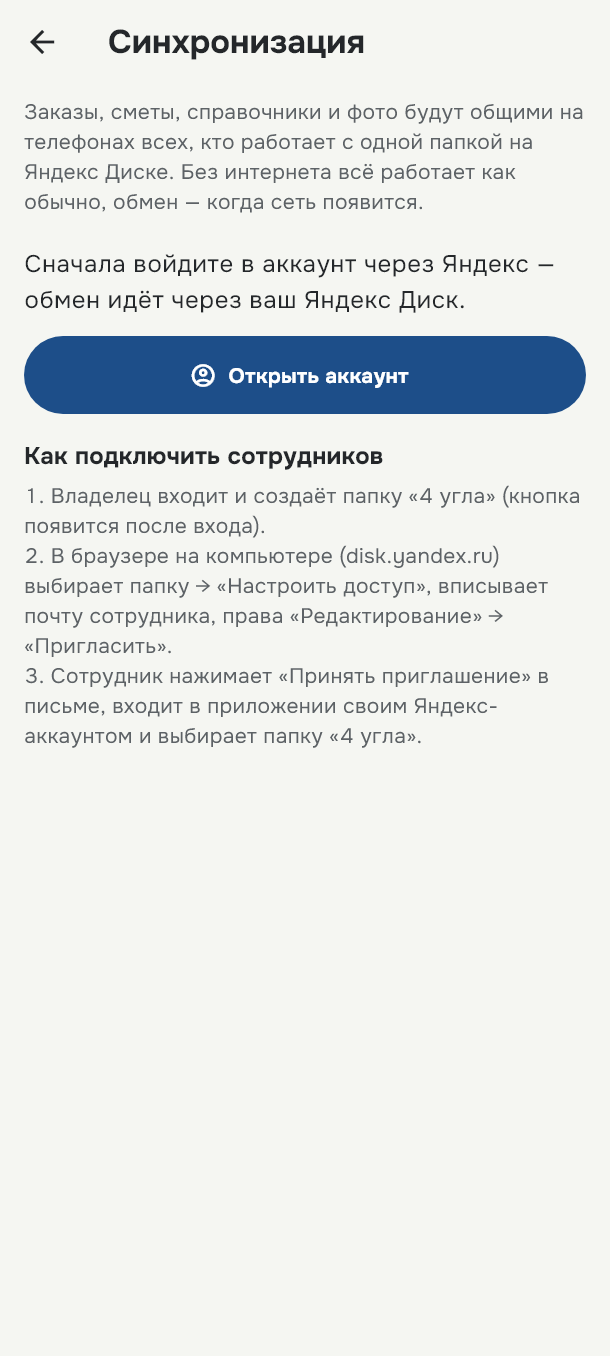
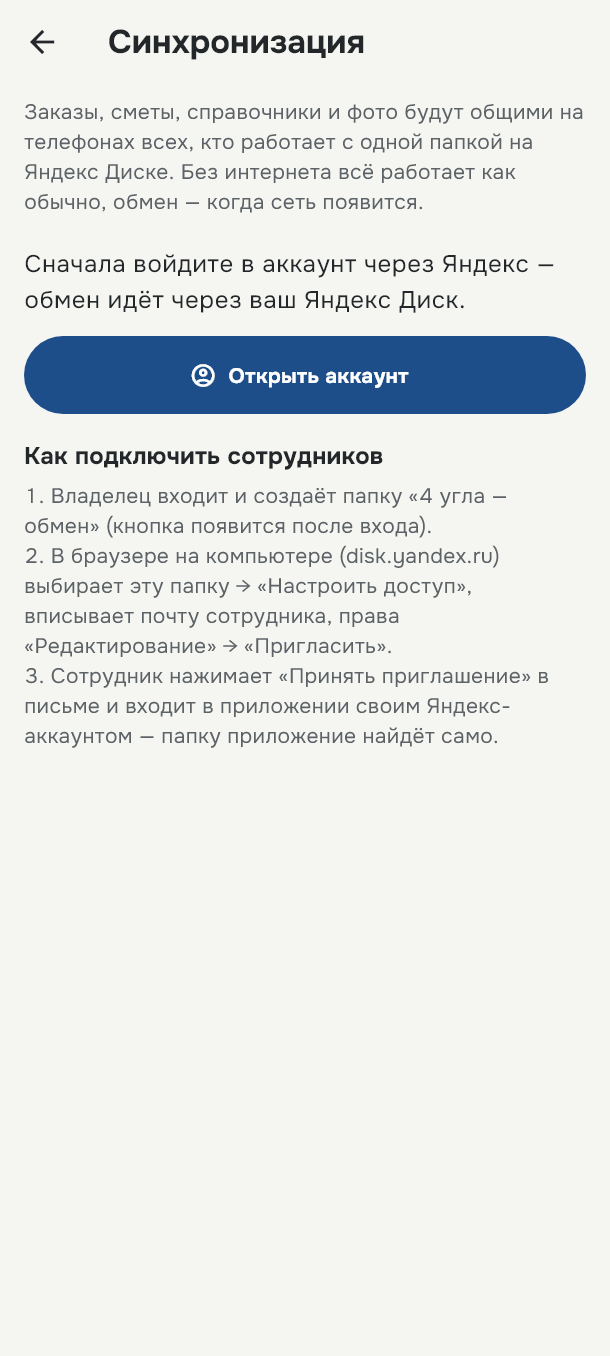
0.1.5: инструкция обмена под папку «4 угла — обмен», CHANGELOG

Changed region(s): [[0.0623, 0.3717, 0.841, 0.5575], [0.4984, 0.3717, 0.6852, 0.4027], [0.8098, 0.3407, 0.9344, 0.3717]]

diff --git a/guide/sync.md b/guide/sync.md
@@ -13,7 +13,7 @@
 
 | | |
 | --- | --- |
-| **Работаете один** | Только [часть 1](#часть-1-войти-и-создать-папку-обмена). Заказы будут храниться и на Диске: сменили телефон — вошли на новом, и всё на месте. На втором своём телефоне войдите тем же аккаунтом и выберите папку «4 угла». |
+| **Работаете один** | Только [часть 1](#часть-1-войти-и-создать-папку-обмена). Заказы будут храниться и на Диске: сменили телефон — вошли на новом, и всё на месте. На втором своём телефоне войдите тем же аккаунтом — папку «4 угла — обмен» приложение найдёт само. |
 | **Вы владелец бригады** | [Часть 1](#часть-1-войти-и-создать-папку-обмена) у себя на телефоне, потом [часть 2](#часть-2-пригласить-сотрудников-в-папку) на компьютере. |
 | **Вы сотрудник** | Дождитесь письма с приглашением от владельца и выполните [часть 3](#часть-3-принять-приглашение-и-подключиться). |
 
@@ -48,20 +48,15 @@
 
 <img src="sync/03-account-signed-out.png" alt="Экран «Аккаунт»: карточка «Обмен и облако — по желанию» с кнопкой «Войти через Яндекс»" width="260">
 
-### 4. Выберите папку
+### 4. Создайте папку «4 угла — обмен»
 
-Теперь на экране видно, кто вошёл, и строка **«Папка не выбрана»**. Нажмите **«Выбрать»**.
+Теперь на экране видно, кто вошёл, и строка **«Папки обмена пока нет»**. Нажмите
+**«Создать папку «4 угла — обмен»»** — папка появится в корне Диска. Название у папки обмена одно для
+всех и выбирать его не нужно: так она не перепутается с вашими папками.
 
-<img src="sync/04-sync-no-folder.png" alt="Экран «Синхронизация» после входа: «Папка не выбрана», кнопка «Выбрать»" width="260">
+<img src="sync/04-sync-no-folder.png" alt="Экран «Синхронизация» после входа: «Папки обмена пока нет», кнопка «Создать папку «4 угла — обмен»»" width="260">
 
-### 5. Создайте папку «4 угла»
-
-Внизу откроется список папок вашего Диска. Нажмите первую строку — **«Создать папку «4 угла»»**.
-Папка появится в корне Диска.
-
-<img src="sync/05-pick-owner.png" alt="Список «Папка обмена» с пунктом «Создать папку «4 угла»»" width="260">
-
-### 6. Проверьте, что всё готово
+### 5. Проверьте, что всё готово
 
 Под названием папки должна быть синяя надпись **«Запись в папку разрешена»**. Первый обмен начнётся
 сам: телефон отправит в папку все свои заказы.
@@ -69,7 +64,7 @@
 Дальше обмен идёт без вас: при открытии приложения, через полминуты после правок и раз в 10 минут,
 пока приложение открыто. Кнопка **«Синхронизировать сейчас»** нужна, только чтобы обменяться сразу.
 
-<img src="sync/06-sync-ready.png" alt="Экран «Синхронизация»: папка «4 угла», «Запись в папку разрешена», кнопка «Синхронизировать сейчас»" width="260">
+<img src="sync/06-sync-ready.png" alt="Экран «Синхронизация»: папка «4 угла — обмен», «Запись в папку разрешена», кнопка «Синхронизировать сейчас»" width="260">
 
 ---
 
@@ -81,11 +76,11 @@
 ### 1. Откройте Диск
 
 Зайдите на [disk.yandex.ru](https://disk.yandex.ru) под тем же аккаунтом, с которым вошли в
-приложении. В списке файлов найдите папку **«4 угла»**.
+приложении. В списке файлов найдите папку **«4 угла — обмен»**.
 
 ### 2. Пригласите сотрудника
 
-**Выделить «4 угла» → «Настроить доступ» → почта сотрудника → «Редактирование» → «Пригласить»**
+**Выделить «4 угла — обмен» → «Настроить доступ» → почта сотрудника → «Редактирование» → «Пригласить»**
 
 - Выделите папку и нажмите **«Настроить доступ»** на верхней панели (или в меню по правой кнопке мыши).
 - Впишите адрес почты сотрудника на Яндексе. Если аккаунта у него нет, Яндекс предложит зарегистрироваться.
@@ -105,7 +100,7 @@
 ### 1. Примите приглашение
 
 На почту придёт письмо от Яндекс Диска. Нажмите в нём **«Принять приглашение»** — откроется Диск.
-Там ещё раз нажмите **«Принять приглашение»** вверху экрана. После этого папка «4 угла» появится и
+Там ещё раз нажмите **«Принять приглашение»** вверху экрана. После этого папка «4 угла — обмен» появится и
 на вашем Диске.
 
 > Общая папка занимает место только на Диске владельца. Но совсем без свободного места на вашем
@@ -116,17 +111,17 @@
 Как в части 1: шестерёнка → **«Синхронизация»** → **«Открыть аккаунт»** → **«Войти через Яндекс»**.
 Входите тем аккаунтом, на почту которого пришло приглашение.
 
-### 3. Выберите общую папку «4 угла»
+### 3. Вернитесь в «Синхронизацию»
 
-Вернитесь в «Синхронизацию», нажмите **«Выбрать»** и выберите в списке папку **«4 угла»** — это и
-есть общая папка владельца. Должна появиться надпись **«Запись в папку разрешена»**, и начнётся
-первый обмен: к вам придут заказы бригады, от вас — ваши.
+Общую папку владельца приложение найдёт само — выбирать ничего не нужно. На экране появится папка
+**«4 угла — обмен»** и надпись **«Запись в папку разрешена»**, начнётся первый обмен: к вам придут заказы
+бригады, от вас — ваши.
 
-> ⚠ Если в списке нет папки «4 угла», а первой строкой стоит **«Создать папку «4 угла»»** —
-> приглашение ещё не принято. Не создавайте папку сами: получится своя отдельная папка, и обмена с
-> бригадой не будет. Вернитесь к шагу 1.
+> ⚠ Если на экране **«Папки обмена пока нет»** — приглашение ещё не принято. Не нажимайте
+> «Создать папку»: получится своя отдельная папка, и обмена с бригадой не будет. Вернитесь к шагу 1,
+> примите приглашение и нажмите **«Найти»**.
 
-<img src="sync/07-pick-employee.png" alt="Список «Папка обмена» у сотрудника: среди папок есть «4 угла»" width="260">
+<img src="sync/07-employee-found.png" alt="Экран «Синхронизация» у сотрудника: найдена папка «4 угла — обмен», «Запись в папку разрешена»" width="260">
 
 ---
 
@@ -148,10 +143,10 @@
 | --- | --- |
 | «У аккаунта нет Яндекс Диска» | Аккаунт создан по номеру телефона (например, через Яндекс Go или Еду) — у таких нет Диска. Откройте [disk.yandex.ru](https://disk.yandex.ru) в браузере под этим аккаунтом, завершите регистрацию (придумайте логин или пароль) и войдите в приложении снова. |
 | «Нет права записи в папку» | Владелец дал права «Просмотр». Пусть на disk.yandex.ru выделит папку, нажмёт «Настроить доступ» и поменяет вам права на «Редактирование». |
-| «Папки нет на Диске» | Владелец закрыл доступ, или папку переименовали либо удалили. Попросите владельца пригласить вас снова, примите приглашение и выберите папку заново кнопкой «Сменить». |
-| «Вход в Яндекс устарел» | Откройте «Синхронизацию» → «Открыть аккаунт» и войдите через Яндекс ещё раз. Папку выбирать заново не нужно. |
+| «Папки нет на Диске» | Владелец закрыл доступ или удалил папку. Попросите владельца пригласить вас снова и примите приглашение — приложение найдёт папку само. Если папку просто переименовали, приложение тоже найдёт её само. |
+| «Вход в Яндекс устарел» | Откройте «Синхронизацию» → «Открыть аккаунт» и войдите через Яндекс ещё раз. |
 | Чьих-то заказов не видно | Проверьте значок облака у обоих: он должен быть с галочкой. Нажмите «Синхронизировать сейчас» сначала на телефоне, где заказ создан, потом на своём. Если не помогло — «Начать обмен заново»: телефон заново отправит и примет все данные, ничего не удаляется. |
-| Сотрудник ушёл из бригады | На disk.yandex.ru выделите папку «4 угла» → «Настроить доступ» и уберите его. Новые заказы к нему больше не попадут. То, что уже было у него в телефоне, там и останется. |
+| Сотрудник ушёл из бригады | На disk.yandex.ru выделите папку «4 угла — обмен» → «Настроить доступ» и уберите его. Новые заказы к нему больше не попадут. То, что уже было у него в телефоне, там и останется. |
 
 ---
 
@@ -159,4 +154,4 @@
 [Настроить общую папку](https://yandex.ru/support/disk/share/shared-folders.html) и
 [Меня пригласили в общую папку](https://yandex.ru/support/disk/share/shared-folders-to-me.html).
 
-Инструкция для версии 4 угла 0.1.2 и новее.
+Инструкция для версии 4 угла 0.1.5 и новее.

diff --git a/CHANGELOG.md b/CHANGELOG.md
@@ -1,5 +1,12 @@
 # Что нового
 
+## 0.1.5 — 24.10.2026
+
+**Обмен через Яндекс Диск — проще**
+- Папка обмена теперь всегда называется «4 угла — обмен», выбирать её не нужно: владелец создаёт папку одной кнопкой, а у сотрудника приложение находит общую папку само — достаточно принять приглашение. Так папка обмена не перепутается с вашими папками.
+- Если обмен уже настроен со своей папкой (например, «Потолки»), всё работает как раньше. Папку можно переименовать на Диске в «4 угла — обмен» — приложение найдёт её само и продолжит обмен с того же места.
+- Инструкция обновлена: [Обмен заказами через Яндекс Диск](https://github.com/grravil/4ugla-releases/blob/main/guide/sync.md).
+
 ## 0.1.4 — 24.10.2026
 
 **Исправлено и улучшено**
